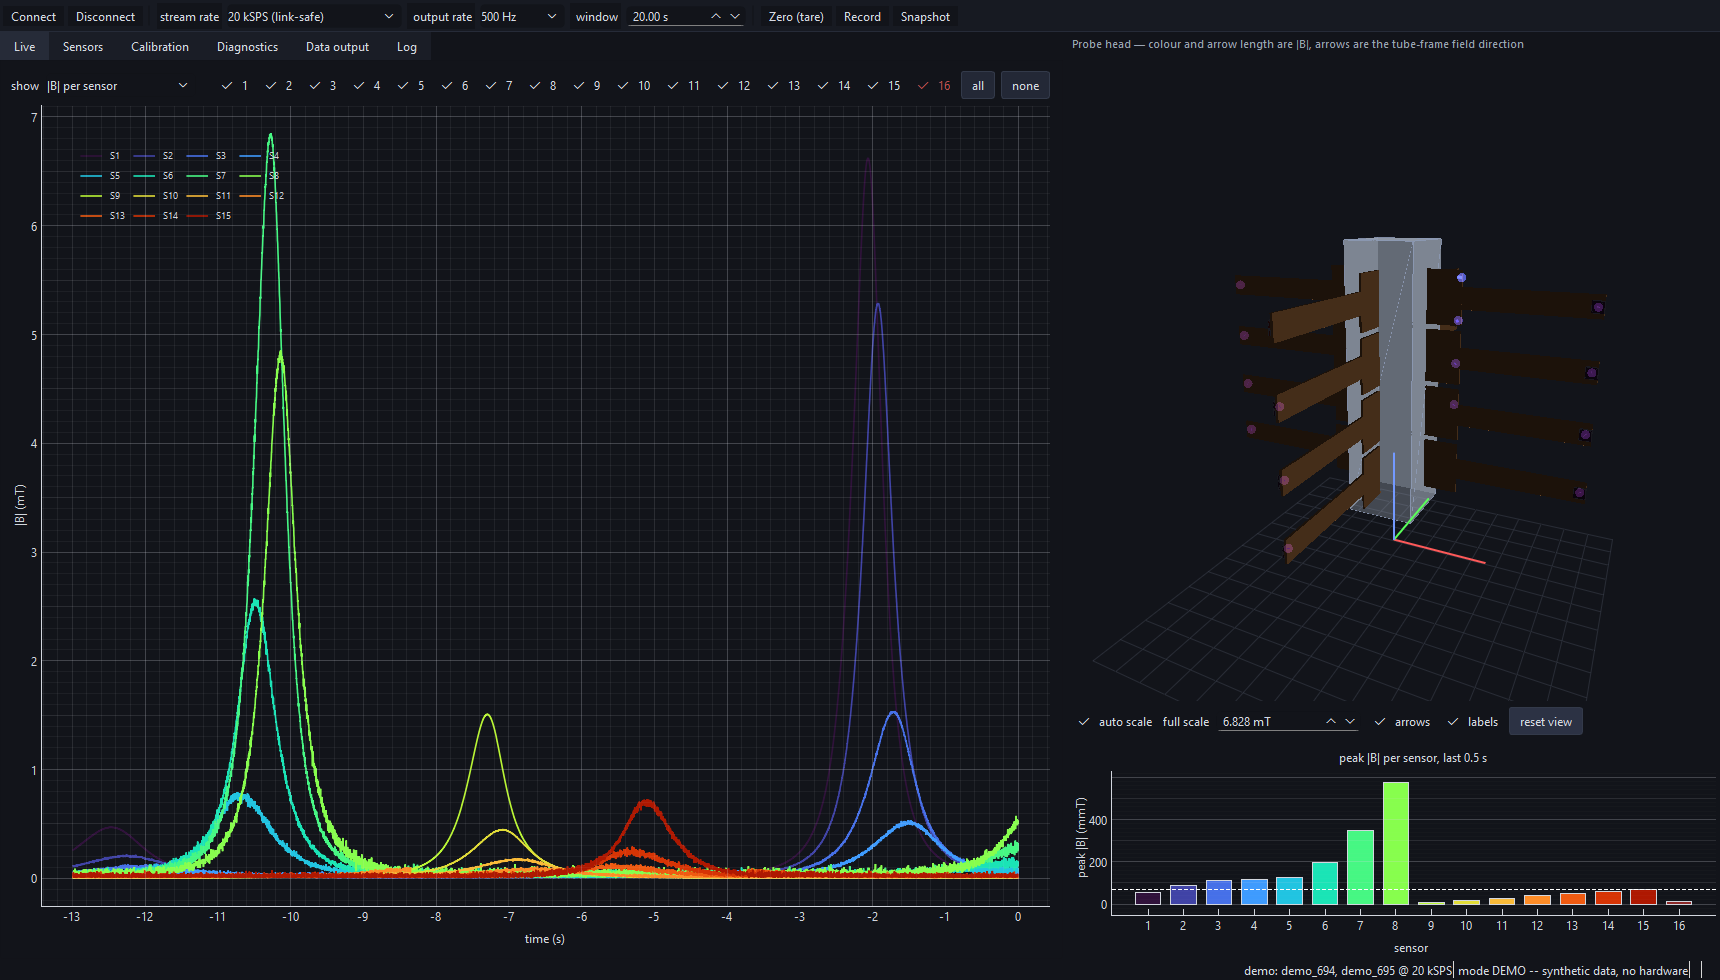
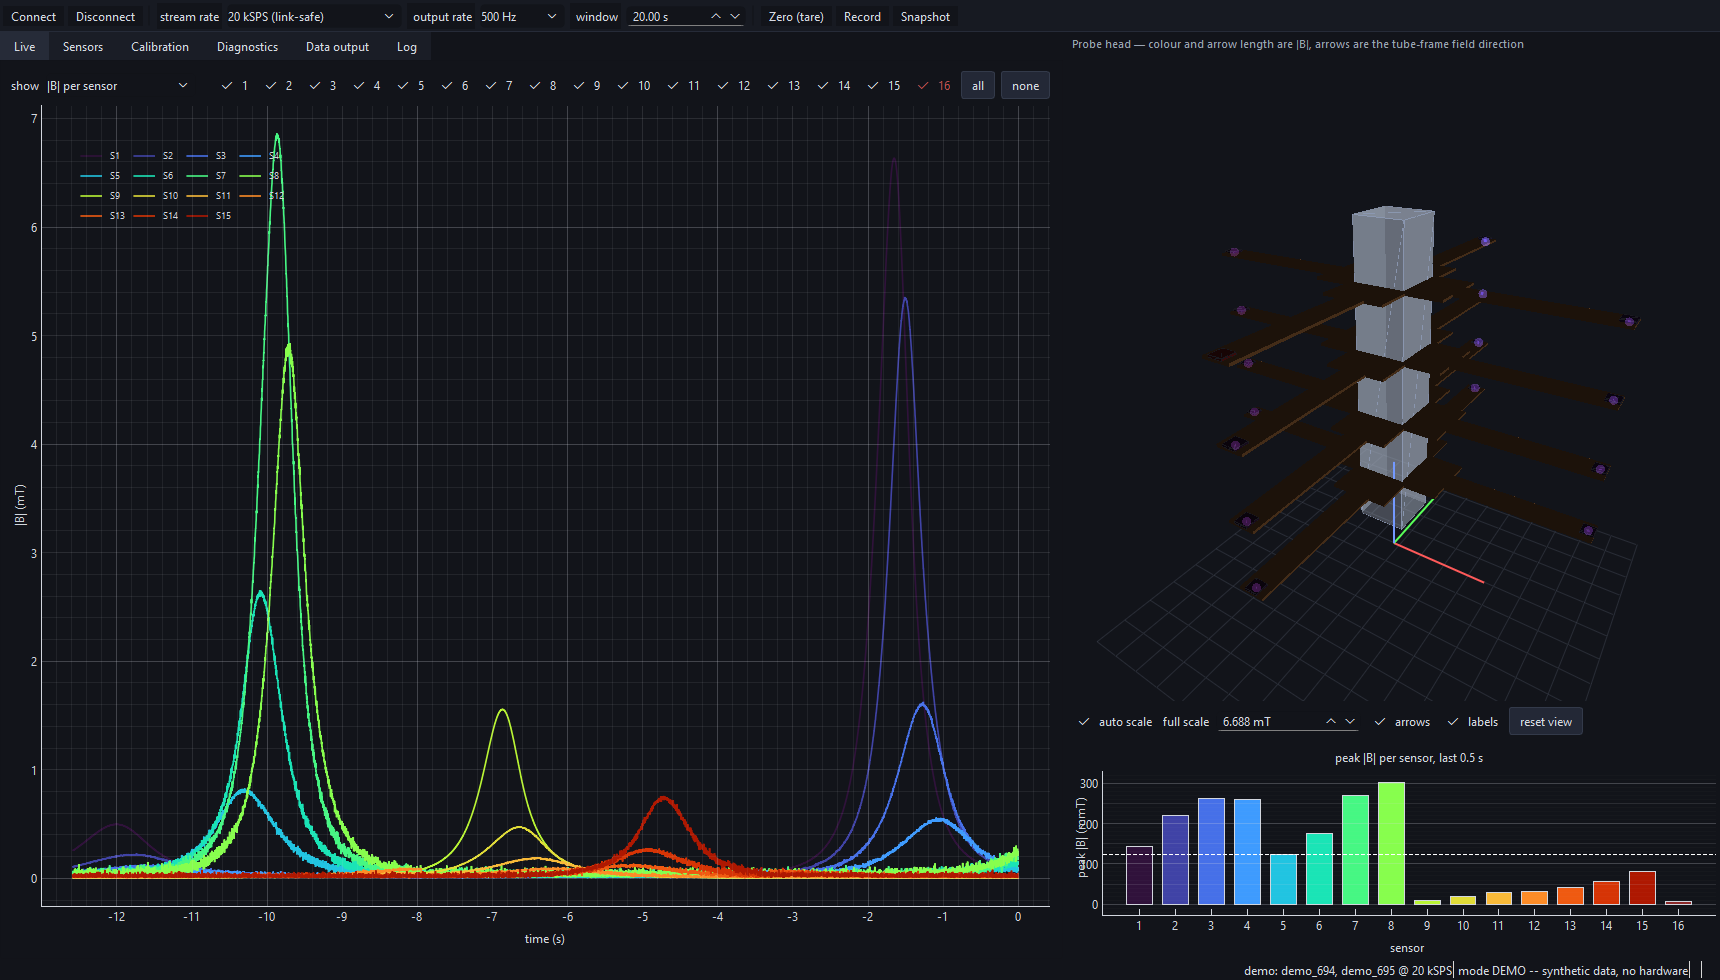
Set the confirmed probe dimensions
Tube is 1 inch (25.4 mm) outside width; mounting plates repeat every 33 mm along
each face, four to a face; the boards lie perpendicular to the tube axis, so the
head is four rings of four rather than four fins per face. Chips land 101.7 mm
from the tube axis.

Noted in the config: with the boards perpendicular to the axis the PCB's 30 mm
width runs circumferentially, so the 33 mm pitch comes from the mounting
brackets rather than the PCB foot, and a 30 mm board slightly overhangs a
25.4 mm face. Worth a look on the bench.

Camera reframed -- the probe is now wider than it is long, and at a low
elevation the four sets of arms overlapped into an unreadable cross.

Regression: 65/65 synthetic, 65/65 replay, 72/72 live.

diff --git a/rcuser_backup/set-device-gain.py b/rcuser_backup/set-device-gain.py
@@ -1,0 +1,53 @@
+#!/usr/bin/python
+
+# for use with OCTOBEE
+
+import sys
+import time
+import ThreeDHALLInterface as tdhi
+
+if __name__ == "__main__":
+
+    # always use SPI1 bus.
+    # OCTOBEE is always "Site 2", so the site selector is 0x20
+    BUS = 1
+    BOARD = 0x20
+    SPI_CLOCK = "976kHz"
+
+    # device selection argument handling
+    try:
+        devnum = int(sys.argv[1])
+    except (IndexError, ValueError):
+        devnum = -1
+
+    while devnum < 0 or devnum > 7:
+        try:
+            devnum = int(input("Invalid value. Enter an integer between 0 and 7: "))
+        except ValueError:
+            print("That is not an integer, try again.")
+            devnum = -1
+    print(f"Selected device {devnum}")
+
+    dx = tdhi.ThreeDHALLInterface()
+    dx.openSPI(BUS, BOARD+devnum)
+    dx.configureSPI(SPI_CLOCK)
+    rc = dx.verify_spi_interface(100)
+    try:
+        gain_setting = sys.argv[2]
+    except IndexError:
+        gain_setting = input("input a gain value (15, 150, 1500, 3000)")
+    gain_setting = int(gain_setting)
+    if rc:
+        print(f"gain is currently {dx.get_gain()}")
+        try:
+            print(f"gain to be set to {gain_setting}")
+            dx.set_amplifier_gain(gain_setting)
+        except (KeyError, IndexError) as e:
+            print(f"error: {e}")
+            new_input = input("Not given a valid gain setting. Enter 15, 150, 1500 or 3000")
+            gain_setting = int(new_input)
+            time.sleep(1)
+        print(f"gain is now {dx.get_gain()}")
+    else:
+        print(f'WARNING: device {devnum} not found')
+

diff --git a/probe_view3d.py b/probe_view3d.py
@@ -177,12 +177,14 @@ class ProbeView3D(gl.GLViewWidget):
                 color=QtGui.QColor.fromRgbF(*col)))
 
     def reset_camera(self):
-        self.opts["center"] = pg.Vector(0, 0, self.geom.tube_length_mm / 2.0)
-        # Side-on and slightly above: the tube runs across the view, so all four
-        # faces and the whole length are readable at once. Frame the arms, not
-        # the tube -- the chips sit far outside it.
-        self.setCameraPosition(distance=self.extent_mm * 1.5,
-                               elevation=16, azimuth=-65)
+        # Frame the arms, not the tube: with 89 mm arms on a 25 mm tube the
+        # probe is wider than it is long, so fitting the tube alone would run
+        # the chips off the edges. Look from above the horizontal rather than
+        # along it, or the four sets of arms overlap into an unreadable cross.
+        centre = pg.Vector(0, 0, self.geom.tube_length_mm / 2.0)
+        self.opts["center"] = centre
+        self.setCameraPosition(pos=centre, distance=self.extent_mm * 1.35,
+                               elevation=26, azimuth=-58)
 
     # ---- live update -----------------------------------------------------
     def reset_scale(self):

diff --git a/octobee_cal.py b/octobee_cal.py
@@ -255,6 +255,21 @@ def report(boxes, ranges, do_plot, plot_path):
                   f"{offs[0]:9.1f} {offs[1]:9.1f} {offs[2]:9.1f}   "
                   f"{noise[0]:9.2f} {noise[1]:9.2f} {noise[2]:9.2f}")
 
+    # A healthy chip sits its VCM near 2.2 V. Anything far outside that window is
+    # not a calibration problem: the analog line is open (a floating ACQ423 input
+    # drifts, so the value also changes between captures) or shorted. Checking
+    # only for the ADC rails misses this -- a floating input can sit mid-scale.
+    VCM_LO, VCM_HI = 1.5, 3.0
+    broken = [r for r in rows if not (VCM_LO <= r["vcm_v"] <= VCM_HI)]
+    if broken:
+        print()
+        for r in broken:
+            print(f"!! S{r['sensor']}: VCM = {r['vcm_v']:.3f} V, outside "
+                  f"{VCM_LO}-{VCM_HI} V. That analog line is open or shorted -- "
+                  f"the chip may still be fine on SPI.")
+        print("   Check the eval-kit ribbon for those ports. Field numbers for "
+              "these sensors are meaningless until fixed.")
+
     vcms = np.array([r["vcm_v"] for r in rows])
     noises = np.array([r["noise"] for r in rows])
     print()

diff --git a/README.md b/README.md
@@ -245,6 +245,69 @@ Until they are harmonised, tell the analysis the truth per box:
 python octobee_cal.py --range 40 --range 20      # 694 then 695, in --uut order
 ```
 
+### Gain: all 16 now at 3000 (±20 mT), permanently — 2026-08-19
+
+Applied and verified. Two independent mechanisms hold it:
+
+1. **EEPROM `EGain_sel` (0x10E) = 0x00** on all 16 chips, with the key (0x1FE)
+   and checksum (0x1FF) rewritten via `activate_EEPROM_config()`. This is what
+   the chip reads at power-up.
+2. **`/mnt/local/rc.user` gain loop on both carriers.** 695 already had one; 694
+   did not (and did not even have `set-device-gain.py`). Both now run the same
+   block, so the gain is re-asserted at every boot even if an EEPROM ever goes
+   invalid.
+
+```bash
+# what the boot block does, on both boxes now
+export PYTHONPATH=$PYTHONPATH:/usr/local/senm3dx
+for sensor in 0 1 2 3 4 5 6 7; do
+    /usr/local/CARE/set-device-gain.py $sensor 3000
+done
+```
+
+Verified from the data afterwards: the gain-chain noise ratio on 694 moved
+14.5 → 26.7 while 695 stayed at 28.0, so **the two boxes now agree to 1.05×**.
+The 1.82× mismatch is gone. All 16 report `gain=3000`, `EGain_sel=0x00`,
+`key=0xa5`, `valid=True`, and each chip has loaded its own gain-3000 trims.
+
+**Everything is now ±20 mT / 63 V/T**, so use `--range 20` (a single value now
+applies to both boxes).
+
+#### Two things to know
+
+**±20 mT clips.** Gain 3000 saturates above 20 mT at the sensor. A small
+neodymium magnet a few mm from a chip easily exceeds that. If you see flat-topped
+peaks, that is clipping, not saturation of the ADC — drop to gain 1500 (±40 mT).
+
+**Fine-gain trims.** The EEPROM stores a separate trim set per gain, and the
+gain-3000 set has more dropped `SENS_*` entries than the gain-1500 set (10 axes
+of 48 vs 5). A dropped trim means that axis uses auto-linearity instead of a
+manual fine-gain correction — worth ≤ ~4 % on that axis. Not a reason to avoid
+gain 3000, but it is the floor on cross-calibration until you measure scale
+factors yourself (§4 step 5).
+
+#### Backups and undo
+
+Full 256-byte EEPROM dumps of all 16 chips, taken before any write, are in
+`eeprom_backup/`. Original `rc.user` files are in `rcuser_backup/`, and
+`/mnt/local/rc.user.bak.pre-gain` on 694.
+
+```bash
+# revert one carrier's EEPROM exactly as it was
+python3 /tmp/onbox_gain_config.py restore --in /tmp/eeprom_acq1001_694.json
+# or just change gain again
+python3 /tmp/onbox_gain_config.py set --gain 1500
+python3 /tmp/onbox_gain_config.py verify --gain 1500
+```
+
+If you change gain, **change it in both places** — EEPROM *and* the `rc.user`
+loop on both boxes. The rc.user loop wins at boot, so editing only the EEPROM
+would silently be overridden. That is exactly how the two boxes came to differ.
+
+One chip needed a retry: 694 sensor 7 first wrote checksum `0xbb` where `0xba`
+was correct and reported `valid=False`. Re-running `activate_EEPROM_config()`
+fixed it. `onbox_gain_config.py verify` is what catches this — always run it.
+
 ### A library bug to know about
 
 `get_meas_range()` returns `'400 mT'` while `get_gain()` returns `1500`, and the
@@ -552,12 +615,17 @@ is analogue pickup in the cabling and grounding rather than a sensor problem.
 The chips are not on the tube: each rides at the tip of a 92 mm SENIS eval-kit
 PCB standing off radially, so its field sensitive volume sits **89 mm clear of
 the face** it is bolted to (3 mm in from the board's tip, 0.55 mm above the
-board surface). With a 40 mm tube that puts every chip 109 mm from the tube
-axis and 218 mm from the chip opposite it.
+board surface). On the 1 inch (25.4 mm) tube that puts every chip 101.7 mm from
+the tube axis and 203 mm from the chip opposite it.
+
+The boards lie perpendicular to the tube axis -- shelves, not fins -- and the
+mounting plates repeat every 33 mm along each face (30 mm plate, ~3 mm gap),
+four to a face. So the head is four rings of four, and it is wider than it is
+long.
 
 That standoff is the single biggest geometric fact about this instrument. A
-magnet 20 mm off one chip is ~240 mm from the far side, and 1/r^3 turns that
-into a **~1800x** difference in what they read from the same magnet. Any
+magnet 20 mm off one chip is ~220 mm from the far side, and 1/r^3 turns that
+into a **~1600x** difference in what they read from the same magnet. Any
 comparison of spike heights has to divide it out before blaming a register --
 which is what *use geometry weighting* on the Calibration tab does.
 
